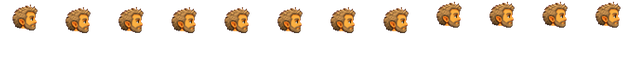
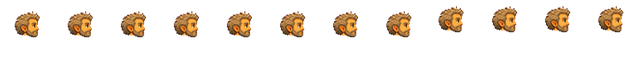
capas: cabeza fija al cuello (misma altura y centro en todos los fotogramas, anclada donde empieza el cuerpo)
Claude-Session: https://claude.ai/code/session_016LDX8s9ZoDhMCEDmCMU4bZ

diff --git a/public/index.html b/public/index.html
@@ -221,7 +221,7 @@ var SB_KEY = 'sb_publishable_1-eGqPkYOPKsW-ZEtUBo7A_16RQQGdK';
 var ATAJO = 'La Otra Comunidad';
 var STEPS_PER_KM = 1350, TOTAL_KM = 115;
 var LUGAR = {nombre:'Madrid', lat:40.43, lon:-3.81};
-var M = {"tramos": [[{"src": "assets/tramos/t1v_0.webp?v=162fa4d7", "y": -192, "v": 0.4, "hd": 3, "espejo": true}, {"src": "assets/tramos/t1v_1.webp?v=4642bb2a", "y": 209, "v": 1.0, "hd": 3, "espejo": true}], [{"src": "assets/tramos/t2v_0.webp?v=2ac7595f", "y": -192, "v": 0.4, "hd": 3, "espejo": true}, {"src": "assets/tramos/t2v_1.webp?v=07659e6a", "y": 209, "v": 1.0, "hd": 3, "espejo": true}], [{"src": "assets/tramos/t3v_0.webp?v=fb33aab2", "y": -192, "v": 0.4, "hd": 3, "espejo": true}, {"src": "assets/tramos/t3v_1.webp?v=42750449", "y": 209, "v": 1.0, "hd": 3, "espejo": true}], [{"src": "assets/tramos/t4v_0.webp?v=c2718a9c", "y": -192, "v": 0.4, "hd": 3, "espejo": true}, {"src": "assets/tramos/t4v_1.webp?v=0b370de7", "y": 209, "v": 1.0, "hd": 3, "espejo": true}], [{"src": "assets/tramos/t5_0.webp?v=f06aecc3", "y": 0, "v": 0.08}, {"src": "assets/tramos/t5_1.webp?v=f3abdd6c", "y": 31, "v": 0.3}, {"src": "assets/tramos/t5_2.webp?v=5110b3be", "y": 85, "v": 0.55}, {"src": "assets/tramos/t5_3.webp?v=a1aa4814", "y": 192, "v": 1.0}], [{"src": "assets/tramos/t6v_0.webp?v=380a0d06", "y": -192, "v": 0.4, "hd": 3, "espejo": true}, {"src": "assets/tramos/t6v_1.webp?v=ff66a92b", "y": 209, "v": 1.0, "hd": 3, "espejo": true}], [{"src": "assets/tramos/t7b_0.webp?v=4c93d6ac", "y": -192, "v": 0.4, "hd": 3, "espejo": true}, {"src": "assets/tramos/t7b_1.webp?v=16982fdd", "y": 210, "v": 1.0, "hd": 3, "espejo": true}], [{"src": "assets/tramos/t8b_0.webp?v=e0185a6c", "y": -192, "v": 0.4, "hd": 3, "espejo": true}, {"src": "assets/tramos/t8b_1.webp?v=5989f657", "y": 210, "v": 1.0, "hd": 3, "espejo": true}]], "arturo": ["assets/pj/arturo_normal.webp?v=7db8d380", "assets/pj/arturo_lluvia.webp?v=410e29f0", "assets/pj/arturo_noche.webp?v=a85f8b09", "assets/pj/arturo_calor.webp?v=5248314d"], "vecinos": ["assets/pj/vecino_1.webp?v=8c5299d1", "assets/pj/vecino_2.webp?v=0ad454f5", "assets/pj/vecino_3.webp?v=7460ffb8", "assets/pj/vecino_4.webp?v=a9dbcc5b"], "faces": "assets/pj/caras9.webp?v=749b1655", "logo": "assets/logo.webp?v=6e5698e6", "mj": {"pan": "assets/mj/zurron_pan.webp?v=eef983d0", "manta": "assets/mj/zurron_manta.webp?v=496c23db", "cuerda": "assets/mj/zurron_cuerda.webp?v=01c52897", "cantimplora": "assets/mj/zurron_cantimplora.webp?v=834316a1", "queso": "assets/mj/zurron_queso.webp?v=7897f985", "mapa": "assets/mj/zurron_mapa.webp?v=77a52314", "farol": "assets/mj/zurron_farol.webp?v=503f7f85", "pipa": "assets/mj/zurron_pipa.webp?v=ff72de42", "sillon": "assets/mj/zurron_sillon.webp?v=e2de97af", "reloj": "assets/mj/zurron_reloj.webp?v=f2e9850f", "cucharas": "assets/mj/zurron_cucharas.webp?v=ddf4903c", "paraguas": "assets/mj/zurron_paraguas.webp?v=29a8c29a", "jarron": "assets/mj/zurron_jarron.webp?v=0e426668", "libraco": "assets/mj/zurron_libraco.webp?v=d1d0c91f", "arbol": "assets/mj/arbol.webp?v=1d1e130a", "jinete1": "assets/mj/jinete1.webp?v=1bdb694e", "jinete2": "assets/mj/jinete2.webp?v=3dc1bbb4", "anillo": "assets/mj/anillo.webp?v=f785c169", "seta1": "assets/mj/seta1.webp?v=9166bdf3", "seta2": "assets/mj/seta2.webp?v=93212779", "seta3": "assets/mj/seta3.webp?v=a212aa81", "perro1": "assets/mj/perro1.webp?v=69bf8c3a", "perro2": "assets/mj/perro2.webp?v=b3a10435", "perro3": "assets/mj/perro3.webp?v=a5e4e2f7", "hoyo": "assets/mj/hoyo.webp?v=d29f43a1", "balsa1": "assets/mj/balsa1.webp?v=d45a7f5d", "balsa2": "assets/mj/balsa2.webp?v=d2719116", "rio": "assets/mj/rio.webp?v=aafc6b10", "muelle": "assets/mj/muelle.webp?v=592eaa57", "sombra": "assets/mj/sombra.webp?v=0652e012", "juncos": "assets/mj/juncos.webp?v=74e1fdc4"}, "papiro": "assets/papiro.webp?v=abe066ba", "andar": {"src": "assets/pj/arturo_andar.webp?v=7e62a290", "n": 6, "fw": 53.0, "h": 74}, "mapa": {"src": "assets/mapa.webp?v=9368dc78", "w": 1024, "h": 3796, "ruta": [[508, 3770], [508, 3761], [510, 3753], [514, 3737], [520, 3723], [529, 3712], [542, 3703], [556, 3696], [573, 3689], [592, 3681], [609, 3671], [622, 3660], [629, 3649], [634, 3636], [637, 3626], [639, 3617], [645, 3610], [654, 3602], [664, 3594], [672, 3584], [681, 3573], [689, 3561], [692, 3548], [690, 3534], [687, 3522], [677, 3509], [664, 3498], [650, 3488], [637, 3482], [621, 3476], [605, 3471], [589, 3467], [571, 3462], [553, 3458], [535, 3454], [518, 3450], [502, 3446], [487, 3441], [473, 3436], [459, 3430], [447, 3423], [438, 3414], [433, 3403], [434, 3391], [437, 3379], [441, 3367], [440, 3355], [433, 3344], [421, 3333], [407, 3323], [393, 3314], [383, 3304], [377, 3293], [379, 3280], [386, 3268], [398, 3256], [417, 3246], [437, 3238], [457, 3232], [476, 3225], [496, 3219], [516, 3212], [534, 3205], [549, 3194], [564, 3183], [578, 3172], [590, 3162], [602, 3154], [616, 3148], [631, 3142], [643, 3134], [652, 3125], [658, 3115], [657, 3104], [649, 3094], [638, 3084], [627, 3076], [614, 3068], [602, 3058], [596, 3047], [594, 3036], [597, 3025], [605, 3015], [619, 3008], [635, 3002], [651, 2993], [666, 2983], [677, 2971], [682, 2957], [682, 2942], [676, 2930], [665, 2918], [651, 2908], [636, 2900], [618, 2894], [600, 2888], [582, 2883], [563, 2878], [545, 2873], [527, 2869], [510, 2863], [496, 2856], [488, 2847], [483, 2843], [480, 2837], [500, 2784], [516, 2740], [516, 2690], [532, 2640], [544, 2590], [544, 2540], [552, 2496], [564, 2460], [544, 2420], [552, 2384], [532, 2344], [502, 2315], [501, 2285], [513, 2255], [538, 2225], [559, 2195], [563, 2165], [563, 2135], [525, 2105], [514, 2075], [515, 1955], [556, 1925], [583, 1895], [547, 1865], [504, 1835], [544, 1805], [553, 1775], [530, 1745], [530, 1715], [547, 1685], [579, 1625], [516, 1595], [510, 1565], [536, 1475], [574, 1445], [605, 1415], [582, 1385], [498, 1355], [531, 1295], [566, 1265], [554, 1235], [565, 1145], [595, 1005], [619, 975], [584, 945], [516, 855], [556, 825], [585, 795], [551, 765], [508, 735], [501, 705], [471, 645], [530, 615], [563, 585], [528, 465], [483, 435], [423, 405], [422, 375], [459, 345], [509, 315], [574, 255], [541, 105], [564, 75], [528, 45], [499, 15], [499, 0]], "lugares": [[0, "Bols\u00f3n Cerrado", 3760], [5, "Delagua", 3310], [15, "Colinas Verdes", 3160], [35, "Bosque Cerrado", 2900], [55, "Atajo", 2730], [75, "La granja", 2640], [90, "Calzada", 2530], [110, "Balsadera", 2475], [115, "Cricava", 2350], [120, "La Cerca", 2010], [130, "Bosque Viejo", 1800], [145, "El Tornasauce", 1530], [150, "Casa de Tom Bombadil", 1440], [175, "Quebradas de los T\u00famulos", 1250], [200, "Camino del Este", 1155], [210, "Bree", 1085], [225, "Bosque de Chet", 975], [250, "Pantanos de Moscagua", 915], [370, "Cima de los Vientos", 690], [530, "Puente \u00daltimo", 530], [600, "Landas de los Trolls", 410], [720, "Vado del Bruinen", 300], [740, "Rivendel", 70]]}, "equipo": {"capa": "assets/eq/capa.webp?v=0122b549", "sombrero": "assets/eq/sombrero.webp?v=f7dfac1a", "panuelo_sam": "assets/eq/panuelo_sam.webp?v=1a80a564", "cazo": "assets/eq/cazo.webp?v=22f7f48c", "broche": "assets/eq/broche.webp?v=6109e8ac", "panuelo_rojo": "assets/eq/panuelo_rojo.webp?v=fd15a308", "cantimplora_cinto": "assets/eq/cantimplora_cinto.webp?v=00c887d2", "pluma": "assets/eq/pluma.webp?v=1d6b2dd4", "gafas": "assets/eq/gafas.webp?v=0f0b85f1", "tiara": "assets/eq/tiara.webp?v=7de8e48f"}, "prologo": {"video": "assets/prologo/prologo.mp4?v=6f226176", "poster": "assets/prologo/poster.webp?v=0afee73e", "casa": "assets/prologo/casa.webp?v=e13a1dd5"}, "ilustraciones": ["assets/prologo/forja.webp?v=3a138e40", "assets/prologo/anillo.webp?v=0773b67f", "assets/prologo/guerra.webp?v=3dbb76a0", "assets/prologo/caido.webp?v=3f00fc99", "assets/prologo/rio.webp?v=f0525166", "assets/prologo/cueva.webp?v=53a6de1b", "assets/prologo/puerta.webp?v=9be18752", "assets/prologo/camino.webp?v=8554a997"], "npc": {"mago": ["assets/pj/mago_normal.webp?v=2dcb7716", "assets/pj/mago_lluvia.webp?v=3e964785", "assets/pj/mago_noche.webp?v=f6641a57", "assets/pj/mago_calor.webp?v=c90085e7"], "sombrero_azul": ["assets/pj/sombrero_azul_normal.webp?v=49dc044e", "assets/pj/sombrero_azul_lluvia.webp?v=dd90bf2a", "assets/pj/sombrero_azul_noche.webp?v=cf98f05d", "assets/pj/sombrero_azul_calor.webp?v=d65dd5f8"]}, "libro": {"0": "assets/libro/p1.webp?v=ef869ff9", "1": "assets/libro/p2.webp?v=6100887a", "2": "assets/libro/p3.webp?v=f87fd195", "3": "assets/libro/p4.webp?v=8c0c0014", "4": "assets/libro/p5.webp?v=a47588b7", "5": "assets/libro/p6.webp?v=7950004b", "6": "assets/libro/p7.webp?v=d7e44576", "7": "assets/libro/p8.webp?v=6766a419"}, "ropa": {"pantalon": "assets/pj/ropa_pantalon.webp?v=c61a7146", "capa": "assets/pj/ropa_capa.webp?v=e1faa8bf", "capa_f": "assets/pj/ropa_capa_f.webp?v=0c709b85", "capaFrame": {"fw": 84, "ox": -31}}, "props": {"senal": "assets/props/senal.webp?v=e7b2f572", "ovejas": "assets/props/ovejas.webp?v=311f376f", "carretilla": "assets/props/carretilla.webp?v=056e52f2", "piedra": "assets/props/piedra.webp?v=b27db386", "lena": "assets/props/lena.webp?v=4165f85f", "colmenas": "assets/props/colmenas.webp?v=b70b723c", "valla": "assets/props/valla.webp?v=4d295390", "setas": "assets/props/setas.webp?v=ce1dae4d", "pozo": "assets/props/pozo.webp?v=037c838e", "banco": "assets/props/banco.webp?v=c317202b", "zorro": "assets/props/zorro.webp?v=2bfaa8b8", "carro_heno": "assets/props/carro_heno.webp?v=d90f13e9"}, "escenas": [{"km": 9, "capas": [{"src": "assets/tramos/e09v_0.webp?v=9b272767", "y": -192, "v": 0.4, "hd": 3, "espejo": true}, {"src": "assets/tramos/e09v_1.webp?v=626f2e28", "y": 209, "v": 1.0, "hd": 3, "espejo": true}]}, {"km": 25, "capas": [{"src": "assets/tramos/e25_0.webp?v=f874360c", "y": -192, "v": 0.4, "hd": 3, "espejo": true}, {"src": "assets/tramos/e25_1.webp?v=dc8516e2", "y": 209, "v": 1.0, "hd": 3, "espejo": true}]}, {"km": 45, "capas": [{"src": "assets/tramos/e45_0.webp?v=0c496962", "y": -192, "v": 0.4, "hd": 3, "espejo": true}, {"src": "assets/tramos/e45_1.webp?v=f8b71963", "y": 209, "v": 1.0, "hd": 3, "espejo": true}]}, {"km": 65, "capas": [{"src": "assets/tramos/e65_0.webp?v=a730a4cb", "y": -192, "v": 0.4, "hd": 3, "espejo": true}, {"src": "assets/tramos/e65_1.webp?v=af390ea6", "y": 209, "v": 1.0, "hd": 3, "espejo": true}]}, {"km": 80, "capas": [{"src": "assets/tramos/e80_0.webp?v=2ae90a84", "y": -192, "v": 0.4, "hd": 3, "espejo": true}, {"src": "assets/tramos/e80_1.webp?v=656134e8", "y": 209, "v": 1.0, "hd": 3, "espejo": true}]}, {"km": 100, "capas": [{"src": "assets/tramos/e100_0.webp?v=96b4d4c3", "y": -192, "v": 0.4, "hd": 3, "espejo": true}, {"src": "assets/tramos/e100_1.webp?v=ff63ade0", "y": 209, "v": 1.0, "hd": 3, "espejo": true}]}, {"km": 113, "capas": [{"src": "assets/tramos/e113_0.webp?v=2f8c2840", "y": -192, "v": 0.4, "hd": 3, "espejo": true}, {"src": "assets/tramos/e113_1.webp?v=343cbb60", "y": 209, "v": 1.0, "hd": 3, "espejo": true}]}], "objetos": {"casa": "assets/mj/obj_casa.webp?v=11955867", "pipa": "assets/mj/obj_pipa.webp?v=9310f0ce", "hoja": "assets/mj/obj_hoja.webp?v=a4fb68a5", "estrella": "assets/mj/obj_estrella.webp?v=2718a702", "cayado": "assets/mj/obj_cayado.webp?v=346609ad", "cesta": "assets/mj/obj_cesta.webp?v=d1e05991", "farol": "assets/mj/obj_farol.webp?v=3c67590e", "balsa": "assets/mj/obj_balsa.webp?v=fcd81db0"}, "ropaIco": {"capa": "assets/eq/capa.webp?v=0122b549", "capa_verde": "assets/eq/capa_verde.webp?v=b5cc373a", "capa_granate": "assets/eq/capa_granate.webp?v=ec0bde53", "capa_gris": "assets/eq/capa_gris.webp?v=d2a75931", "pant_verde": "assets/eq/pant_verde.webp?v=1b3a8a49", "pant_azul": "assets/eq/pant_azul.webp?v=873e7563", "pant_gris": "assets/eq/pant_gris.webp?v=dc39d40e", "pant_mostaza": "assets/eq/pant_mostaza.webp?v=a53bb81c"}, "andarPJ": {"fer": {"src": "assets/pj/andar_fer.webp?v=a1960a01", "pantalon": "assets/pj/ropa_pantalon_fer.webp?v=ddc157ee", "capa": "assets/pj/ropa_capa_fer.webp?v=4ec3bc47", "capa_f": "assets/pj/ropa_capa_f_fer.webp?v=16a7a4cc", "n": 8, "ms": 160, "vel": 0.0356, "dx": [0, -3, 2, 2, -3, -3, 3, 4]}, "patri": {"src": "assets/pj/andar_patri.webp?v=6ce8bf24", "pantalon": "assets/pj/ropa_pantalon_patri.webp?v=3f92d97d", "capa": "assets/pj/ropa_capa_patri.webp?v=69ac1f75", "capa_f": "assets/pj/ropa_capa_f_patri.webp?v=a9eb8c68", "n": 8, "ms": 160, "vel": 0.0356, "dx": [0, -3, 2, 2, -3, -3, 3, 4]}, "juanpablo": {"src": "assets/pj/andar_juanpablo.webp?v=c89365f6", "pantalon": "assets/pj/ropa_pantalon_juanpablo.webp?v=eabcf1f7", "capa": "assets/pj/ropa_capa_juanpablo.webp?v=ef786ba2", "capa_f": "assets/pj/ropa_capa_f_juanpablo.webp?v=084549cb", "n": 8, "ms": 160, "vel": 0.0356, "dx": [0, 0, 0, 0, 0, 0, 0, 0]}, "arturo": {"src": "assets/pj/andar_arturo.webp?v=c15a4cbf", "pantalon": "assets/pj/ropa_pantalon_arturo.webp?v=5fb87995", "capa": "assets/pj/ropa_capa_arturo.webp?v=0658b58c", "capa_f": "assets/pj/ropa_capa_f_arturo.webp?v=f4b0b94a", "n": 8, "ms": 160, "vel": 0.0344, "dx": [0, -4, 0, 4, 0, -4, 0, 4]}, "edo": {"src": "assets/pj/andar_edo.webp?v=874feaf0", "pantalon": "assets/pj/ropa_pantalon_edo.webp?v=be0ca919", "capa": "assets/pj/ropa_capa_edo.webp?v=16ef3acf", "capa_f": "assets/pj/ropa_capa_f_edo.webp?v=50e3d11f", "n": 8, "ms": 160, "vel": 0.0344, "dx": [0, -4, 0, 4, 0, -4, 0, 4]}}, "menu": {"forja": "assets/menu/forja.webp?v=32eaa4c1", "anillo": "assets/menu/anillo.webp?v=2edff033", "chispas": {"src": "assets/menu/chispas.webp?v=7a0e8284", "n": 6, "fw": 125, "h": 262}, "herrero": {"src": "assets/menu/herrero.webp?v=8d4a16d2", "n": 4, "fw": 320, "h": 295}}, "ui": {"redondo": "assets/ui/redondo.webp?v=553a38ab", "redondo_on": "assets/ui/redondo_on.webp?v=d47c1e86", "largo": "assets/ui/largo.webp?v=21b6a8ab", "largo_on": "assets/ui/largo_on.webp?v=b4d3082f", "i_mapa": "assets/ui/i_mapa.webp?v=baf5a951", "i_libro": "assets/ui/i_libro.webp?v=65e306af", "i_comunidad": "assets/ui/i_comunidad.webp?v=ba394914", "i_zurron": "assets/ui/i_zurron.webp?v=801f3a01", "i_sync": "assets/ui/i_sync.webp?v=56462d84", "i_hoja": "assets/ui/i_hoja.webp?v=f8fe9299", "placa_pasos": "assets/ui/placa_pasos.webp?v=12bec8e1", "destellos": "assets/ui/destellos.webp?v=b74326dc", "fondo_menu": "assets/ui/fondo_menu.webp?v=0cf7211a", "hoja_menu": "assets/ui/hoja_menu.webp?v=82f13f93"}, "facesN": 9, "quietoPJ": {"fer": {"src": "assets/pj/quieto_fer.webp?v=2d287b87", "pantalon": "assets/pj/ropa_pantalon_quieto_fer.webp?v=2a5fa9ec", "capa": "assets/pj/ropa_capa_quieto_fer.webp?v=748a63a8", "capa_f": "assets/pj/ropa_capa_f_quieto_fer.webp?v=9d786b24", "n": 4, "ms": 450}, "patri": {"src": "assets/pj/quieto_patri.webp?v=e8935790", "pantalon": "assets/pj/ropa_pantalon_quieto_patri.webp?v=b4969e48", "capa": "assets/pj/ropa_capa_quieto_patri.webp?v=26634d11", "capa_f": "assets/pj/ropa_capa_f_quieto_patri.webp?v=328aff4d", "n": 4, "ms": 450}, "adrian": {"src": "assets/pj/quieto_adrian.webp?v=b81deb89", "pantalon": "assets/pj/ropa_pantalon_quieto_adrian.webp?v=5525cad1", "capa": "assets/pj/ropa_capa_quieto_adrian.webp?v=a22c0b8a", "capa_f": "assets/pj/ropa_capa_f_quieto_adrian.webp?v=6c51806e", "n": 4, "ms": 450}, "carlos": {"src": "assets/pj/quieto_carlos.webp?v=c5a30670", "pantalon": "assets/pj/ropa_pantalon_quieto_carlos.webp?v=b82e99a6", "capa": "assets/pj/ropa_capa_quieto_carlos.webp?v=5d3f98c6", "capa_f": "assets/pj/ropa_capa_f_quieto_carlos.webp?v=d8920044", "n": 4, "ms": 450}, "juanpablo": {"src": "assets/pj/quieto_juanpablo.webp?v=6e704838", "pantalon": "assets/pj/ropa_pantalon_quieto_juanpablo.webp?v=cd8fb44e", "capa": "assets/pj/ropa_capa_quieto_juanpablo.webp?v=c7daa765", "capa_f": "assets/pj/ropa_capa_f_quieto_juanpablo.webp?v=383cb623", "n": 4, "ms": 450}, "arturo": {"src": "assets/pj/quieto_arturo.webp?v=a137794f", "pantalon": "assets/pj/ropa_pantalon_quieto_arturo.webp?v=41e5d86c", "capa": "assets/pj/ropa_capa_quieto_arturo.webp?v=4d687a5b", "capa_f": "assets/pj/ropa_capa_f_quieto_arturo.webp?v=31b81915", "n": 4, "ms": 450}, "edo": {"src": "assets/pj/quieto_edo.webp?v=25a809fa", "pantalon": "assets/pj/ropa_pantalon_quieto_edo.webp?v=ec1ecdb7", "capa": "assets/pj/ropa_capa_quieto_edo.webp?v=f5d0127d", "capa_f": "assets/pj/ropa_capa_f_quieto_edo.webp?v=ff69cc07", "n": 4, "ms": 450}}, "fp": [{"tramo": 3, "fondo": "assets/fp/bosque_fondo.webp?v=d94309cc", "delante": "assets/fp/bosque_delante.webp?v=4903fead", "manos": {"src": "assets/fp/manos.webp?v=7ba225f5", "n": 4, "fw": 325, "h": 434}, "fuga": [0.5, 0.56], "luces": [[0.47, 0.565], [0.51, 0.548], [0.545, 0.565], [0.455, 0.575]], "hasta": 45}], "escenaElfos": ["assets/escenas/elfos1.webp?v=821cfc4d", "assets/escenas/elfos2.webp?v=a89595ed", "assets/escenas/elfos3.webp?v=2f3b37c6"], "entreactos": {"1": {"video": "assets/entreactos/acto1.mp4?v=24d497d1", "poster": "assets/entreactos/acto1.webp?v=4f4a3739"}}, "capas": {"capas": {"cuerpo": "assets/pj/capas/cuerpo.webp?v=66200e3b", "capa": "assets/pj/capas/capa.webp?v=2d14e53d", "pantalon": "assets/pj/capas/pantalon.webp?v=fc330ced", "mochila": "assets/pj/capas/mochila.webp?v=8a00b540", "cantimplora": "assets/pj/capas/cantimplora.webp?v=6987245d"}, "cabezas": {"arturo": "assets/pj/capas/cab_arturo.webp?v=56e048df", "fer": "assets/pj/capas/cab_fer.webp?v=4943aeec", "patri": "assets/pj/capas/cab_patri.webp?v=c59c0352", "edo": "assets/pj/capas/cab_edo.webp?v=a88692df", "carlos": "assets/pj/capas/cab_carlos.webp?v=580e91e3", "porru": "assets/pj/capas/cab_porru.webp?v=55a941b5", "adrian": "assets/pj/capas/cab_adrian.webp?v=7e29d59d", "rodri": "assets/pj/capas/cab_rodri.webp?v=952eeaa0", "juanpablo": "assets/pj/capas/cab_juanpablo.webp?v=92d43bfb"}}};
+var M = {"tramos": [[{"src": "assets/tramos/t1v_0.webp?v=162fa4d7", "y": -192, "v": 0.4, "hd": 3, "espejo": true}, {"src": "assets/tramos/t1v_1.webp?v=4642bb2a", "y": 209, "v": 1.0, "hd": 3, "espejo": true}], [{"src": "assets/tramos/t2v_0.webp?v=2ac7595f", "y": -192, "v": 0.4, "hd": 3, "espejo": true}, {"src": "assets/tramos/t2v_1.webp?v=07659e6a", "y": 209, "v": 1.0, "hd": 3, "espejo": true}], [{"src": "assets/tramos/t3v_0.webp?v=fb33aab2", "y": -192, "v": 0.4, "hd": 3, "espejo": true}, {"src": "assets/tramos/t3v_1.webp?v=42750449", "y": 209, "v": 1.0, "hd": 3, "espejo": true}], [{"src": "assets/tramos/t4v_0.webp?v=c2718a9c", "y": -192, "v": 0.4, "hd": 3, "espejo": true}, {"src": "assets/tramos/t4v_1.webp?v=0b370de7", "y": 209, "v": 1.0, "hd": 3, "espejo": true}], [{"src": "assets/tramos/t5_0.webp?v=f06aecc3", "y": 0, "v": 0.08}, {"src": "assets/tramos/t5_1.webp?v=f3abdd6c", "y": 31, "v": 0.3}, {"src": "assets/tramos/t5_2.webp?v=5110b3be", "y": 85, "v": 0.55}, {"src": "assets/tramos/t5_3.webp?v=a1aa4814", "y": 192, "v": 1.0}], [{"src": "assets/tramos/t6v_0.webp?v=380a0d06", "y": -192, "v": 0.4, "hd": 3, "espejo": true}, {"src": "assets/tramos/t6v_1.webp?v=ff66a92b", "y": 209, "v": 1.0, "hd": 3, "espejo": true}], [{"src": "assets/tramos/t7b_0.webp?v=4c93d6ac", "y": -192, "v": 0.4, "hd": 3, "espejo": true}, {"src": "assets/tramos/t7b_1.webp?v=16982fdd", "y": 210, "v": 1.0, "hd": 3, "espejo": true}], [{"src": "assets/tramos/t8b_0.webp?v=e0185a6c", "y": -192, "v": 0.4, "hd": 3, "espejo": true}, {"src": "assets/tramos/t8b_1.webp?v=5989f657", "y": 210, "v": 1.0, "hd": 3, "espejo": true}]], "arturo": ["assets/pj/arturo_normal.webp?v=7db8d380", "assets/pj/arturo_lluvia.webp?v=410e29f0", "assets/pj/arturo_noche.webp?v=a85f8b09", "assets/pj/arturo_calor.webp?v=5248314d"], "vecinos": ["assets/pj/vecino_1.webp?v=8c5299d1", "assets/pj/vecino_2.webp?v=0ad454f5", "assets/pj/vecino_3.webp?v=7460ffb8", "assets/pj/vecino_4.webp?v=a9dbcc5b"], "faces": "assets/pj/caras9.webp?v=749b1655", "logo": "assets/logo.webp?v=6e5698e6", "mj": {"pan": "assets/mj/zurron_pan.webp?v=eef983d0", "manta": "assets/mj/zurron_manta.webp?v=496c23db", "cuerda": "assets/mj/zurron_cuerda.webp?v=01c52897", "cantimplora": "assets/mj/zurron_cantimplora.webp?v=834316a1", "queso": "assets/mj/zurron_queso.webp?v=7897f985", "mapa": "assets/mj/zurron_mapa.webp?v=77a52314", "farol": "assets/mj/zurron_farol.webp?v=503f7f85", "pipa": "assets/mj/zurron_pipa.webp?v=ff72de42", "sillon": "assets/mj/zurron_sillon.webp?v=e2de97af", "reloj": "assets/mj/zurron_reloj.webp?v=f2e9850f", "cucharas": "assets/mj/zurron_cucharas.webp?v=ddf4903c", "paraguas": "assets/mj/zurron_paraguas.webp?v=29a8c29a", "jarron": "assets/mj/zurron_jarron.webp?v=0e426668", "libraco": "assets/mj/zurron_libraco.webp?v=d1d0c91f", "arbol": "assets/mj/arbol.webp?v=1d1e130a", "jinete1": "assets/mj/jinete1.webp?v=1bdb694e", "jinete2": "assets/mj/jinete2.webp?v=3dc1bbb4", "anillo": "assets/mj/anillo.webp?v=f785c169", "seta1": "assets/mj/seta1.webp?v=9166bdf3", "seta2": "assets/mj/seta2.webp?v=93212779", "seta3": "assets/mj/seta3.webp?v=a212aa81", "perro1": "assets/mj/perro1.webp?v=69bf8c3a", "perro2": "assets/mj/perro2.webp?v=b3a10435", "perro3": "assets/mj/perro3.webp?v=a5e4e2f7", "hoyo": "assets/mj/hoyo.webp?v=d29f43a1", "balsa1": "assets/mj/balsa1.webp?v=d45a7f5d", "balsa2": "assets/mj/balsa2.webp?v=d2719116", "rio": "assets/mj/rio.webp?v=aafc6b10", "muelle": "assets/mj/muelle.webp?v=592eaa57", "sombra": "assets/mj/sombra.webp?v=0652e012", "juncos": "assets/mj/juncos.webp?v=74e1fdc4"}, "papiro": "assets/papiro.webp?v=abe066ba", "andar": {"src": "assets/pj/arturo_andar.webp?v=7e62a290", "n": 6, "fw": 53.0, "h": 74}, "mapa": {"src": "assets/mapa.webp?v=9368dc78", "w": 1024, "h": 3796, "ruta": [[508, 3770], [508, 3761], [510, 3753], [514, 3737], [520, 3723], [529, 3712], [542, 3703], [556, 3696], [573, 3689], [592, 3681], [609, 3671], [622, 3660], [629, 3649], [634, 3636], [637, 3626], [639, 3617], [645, 3610], [654, 3602], [664, 3594], [672, 3584], [681, 3573], [689, 3561], [692, 3548], [690, 3534], [687, 3522], [677, 3509], [664, 3498], [650, 3488], [637, 3482], [621, 3476], [605, 3471], [589, 3467], [571, 3462], [553, 3458], [535, 3454], [518, 3450], [502, 3446], [487, 3441], [473, 3436], [459, 3430], [447, 3423], [438, 3414], [433, 3403], [434, 3391], [437, 3379], [441, 3367], [440, 3355], [433, 3344], [421, 3333], [407, 3323], [393, 3314], [383, 3304], [377, 3293], [379, 3280], [386, 3268], [398, 3256], [417, 3246], [437, 3238], [457, 3232], [476, 3225], [496, 3219], [516, 3212], [534, 3205], [549, 3194], [564, 3183], [578, 3172], [590, 3162], [602, 3154], [616, 3148], [631, 3142], [643, 3134], [652, 3125], [658, 3115], [657, 3104], [649, 3094], [638, 3084], [627, 3076], [614, 3068], [602, 3058], [596, 3047], [594, 3036], [597, 3025], [605, 3015], [619, 3008], [635, 3002], [651, 2993], [666, 2983], [677, 2971], [682, 2957], [682, 2942], [676, 2930], [665, 2918], [651, 2908], [636, 2900], [618, 2894], [600, 2888], [582, 2883], [563, 2878], [545, 2873], [527, 2869], [510, 2863], [496, 2856], [488, 2847], [483, 2843], [480, 2837], [500, 2784], [516, 2740], [516, 2690], [532, 2640], [544, 2590], [544, 2540], [552, 2496], [564, 2460], [544, 2420], [552, 2384], [532, 2344], [502, 2315], [501, 2285], [513, 2255], [538, 2225], [559, 2195], [563, 2165], [563, 2135], [525, 2105], [514, 2075], [515, 1955], [556, 1925], [583, 1895], [547, 1865], [504, 1835], [544, 1805], [553, 1775], [530, 1745], [530, 1715], [547, 1685], [579, 1625], [516, 1595], [510, 1565], [536, 1475], [574, 1445], [605, 1415], [582, 1385], [498, 1355], [531, 1295], [566, 1265], [554, 1235], [565, 1145], [595, 1005], [619, 975], [584, 945], [516, 855], [556, 825], [585, 795], [551, 765], [508, 735], [501, 705], [471, 645], [530, 615], [563, 585], [528, 465], [483, 435], [423, 405], [422, 375], [459, 345], [509, 315], [574, 255], [541, 105], [564, 75], [528, 45], [499, 15], [499, 0]], "lugares": [[0, "Bols\u00f3n Cerrado", 3760], [5, "Delagua", 3310], [15, "Colinas Verdes", 3160], [35, "Bosque Cerrado", 2900], [55, "Atajo", 2730], [75, "La granja", 2640], [90, "Calzada", 2530], [110, "Balsadera", 2475], [115, "Cricava", 2350], [120, "La Cerca", 2010], [130, "Bosque Viejo", 1800], [145, "El Tornasauce", 1530], [150, "Casa de Tom Bombadil", 1440], [175, "Quebradas de los T\u00famulos", 1250], [200, "Camino del Este", 1155], [210, "Bree", 1085], [225, "Bosque de Chet", 975], [250, "Pantanos de Moscagua", 915], [370, "Cima de los Vientos", 690], [530, "Puente \u00daltimo", 530], [600, "Landas de los Trolls", 410], [720, "Vado del Bruinen", 300], [740, "Rivendel", 70]]}, "equipo": {"capa": "assets/eq/capa.webp?v=0122b549", "sombrero": "assets/eq/sombrero.webp?v=f7dfac1a", "panuelo_sam": "assets/eq/panuelo_sam.webp?v=1a80a564", "cazo": "assets/eq/cazo.webp?v=22f7f48c", "broche": "assets/eq/broche.webp?v=6109e8ac", "panuelo_rojo": "assets/eq/panuelo_rojo.webp?v=fd15a308", "cantimplora_cinto": "assets/eq/cantimplora_cinto.webp?v=00c887d2", "pluma": "assets/eq/pluma.webp?v=1d6b2dd4", "gafas": "assets/eq/gafas.webp?v=0f0b85f1", "tiara": "assets/eq/tiara.webp?v=7de8e48f"}, "prologo": {"video": "assets/prologo/prologo.mp4?v=6f226176", "poster": "assets/prologo/poster.webp?v=0afee73e", "casa": "assets/prologo/casa.webp?v=e13a1dd5"}, "ilustraciones": ["assets/prologo/forja.webp?v=3a138e40", "assets/prologo/anillo.webp?v=0773b67f", "assets/prologo/guerra.webp?v=3dbb76a0", "assets/prologo/caido.webp?v=3f00fc99", "assets/prologo/rio.webp?v=f0525166", "assets/prologo/cueva.webp?v=53a6de1b", "assets/prologo/puerta.webp?v=9be18752", "assets/prologo/camino.webp?v=8554a997"], "npc": {"mago": ["assets/pj/mago_normal.webp?v=2dcb7716", "assets/pj/mago_lluvia.webp?v=3e964785", "assets/pj/mago_noche.webp?v=f6641a57", "assets/pj/mago_calor.webp?v=c90085e7"], "sombrero_azul": ["assets/pj/sombrero_azul_normal.webp?v=49dc044e", "assets/pj/sombrero_azul_lluvia.webp?v=dd90bf2a", "assets/pj/sombrero_azul_noche.webp?v=cf98f05d", "assets/pj/sombrero_azul_calor.webp?v=d65dd5f8"]}, "libro": {"0": "assets/libro/p1.webp?v=ef869ff9", "1": "assets/libro/p2.webp?v=6100887a", "2": "assets/libro/p3.webp?v=f87fd195", "3": "assets/libro/p4.webp?v=8c0c0014", "4": "assets/libro/p5.webp?v=a47588b7", "5": "assets/libro/p6.webp?v=7950004b", "6": "assets/libro/p7.webp?v=d7e44576", "7": "assets/libro/p8.webp?v=6766a419"}, "ropa": {"pantalon": "assets/pj/ropa_pantalon.webp?v=c61a7146", "capa": "assets/pj/ropa_capa.webp?v=e1faa8bf", "capa_f": "assets/pj/ropa_capa_f.webp?v=0c709b85", "capaFrame": {"fw": 84, "ox": -31}}, "props": {"senal": "assets/props/senal.webp?v=e7b2f572", "ovejas": "assets/props/ovejas.webp?v=311f376f", "carretilla": "assets/props/carretilla.webp?v=056e52f2", "piedra": "assets/props/piedra.webp?v=b27db386", "lena": "assets/props/lena.webp?v=4165f85f", "colmenas": "assets/props/colmenas.webp?v=b70b723c", "valla": "assets/props/valla.webp?v=4d295390", "setas": "assets/props/setas.webp?v=ce1dae4d", "pozo": "assets/props/pozo.webp?v=037c838e", "banco": "assets/props/banco.webp?v=c317202b", "zorro": "assets/props/zorro.webp?v=2bfaa8b8", "carro_heno": "assets/props/carro_heno.webp?v=d90f13e9"}, "escenas": [{"km": 9, "capas": [{"src": "assets/tramos/e09v_0.webp?v=9b272767", "y": -192, "v": 0.4, "hd": 3, "espejo": true}, {"src": "assets/tramos/e09v_1.webp?v=626f2e28", "y": 209, "v": 1.0, "hd": 3, "espejo": true}]}, {"km": 25, "capas": [{"src": "assets/tramos/e25_0.webp?v=f874360c", "y": -192, "v": 0.4, "hd": 3, "espejo": true}, {"src": "assets/tramos/e25_1.webp?v=dc8516e2", "y": 209, "v": 1.0, "hd": 3, "espejo": true}]}, {"km": 45, "capas": [{"src": "assets/tramos/e45_0.webp?v=0c496962", "y": -192, "v": 0.4, "hd": 3, "espejo": true}, {"src": "assets/tramos/e45_1.webp?v=f8b71963", "y": 209, "v": 1.0, "hd": 3, "espejo": true}]}, {"km": 65, "capas": [{"src": "assets/tramos/e65_0.webp?v=a730a4cb", "y": -192, "v": 0.4, "hd": 3, "espejo": true}, {"src": "assets/tramos/e65_1.webp?v=af390ea6", "y": 209, "v": 1.0, "hd": 3, "espejo": true}]}, {"km": 80, "capas": [{"src": "assets/tramos/e80_0.webp?v=2ae90a84", "y": -192, "v": 0.4, "hd": 3, "espejo": true}, {"src": "assets/tramos/e80_1.webp?v=656134e8", "y": 209, "v": 1.0, "hd": 3, "espejo": true}]}, {"km": 100, "capas": [{"src": "assets/tramos/e100_0.webp?v=96b4d4c3", "y": -192, "v": 0.4, "hd": 3, "espejo": true}, {"src": "assets/tramos/e100_1.webp?v=ff63ade0", "y": 209, "v": 1.0, "hd": 3, "espejo": true}]}, {"km": 113, "capas": [{"src": "assets/tramos/e113_0.webp?v=2f8c2840", "y": -192, "v": 0.4, "hd": 3, "espejo": true}, {"src": "assets/tramos/e113_1.webp?v=343cbb60", "y": 209, "v": 1.0, "hd": 3, "espejo": true}]}], "objetos": {"casa": "assets/mj/obj_casa.webp?v=11955867", "pipa": "assets/mj/obj_pipa.webp?v=9310f0ce", "hoja": "assets/mj/obj_hoja.webp?v=a4fb68a5", "estrella": "assets/mj/obj_estrella.webp?v=2718a702", "cayado": "assets/mj/obj_cayado.webp?v=346609ad", "cesta": "assets/mj/obj_cesta.webp?v=d1e05991", "farol": "assets/mj/obj_farol.webp?v=3c67590e", "balsa": "assets/mj/obj_balsa.webp?v=fcd81db0"}, "ropaIco": {"capa": "assets/eq/capa.webp?v=0122b549", "capa_verde": "assets/eq/capa_verde.webp?v=b5cc373a", "capa_granate": "assets/eq/capa_granate.webp?v=ec0bde53", "capa_gris": "assets/eq/capa_gris.webp?v=d2a75931", "pant_verde": "assets/eq/pant_verde.webp?v=1b3a8a49", "pant_azul": "assets/eq/pant_azul.webp?v=873e7563", "pant_gris": "assets/eq/pant_gris.webp?v=dc39d40e", "pant_mostaza": "assets/eq/pant_mostaza.webp?v=a53bb81c"}, "andarPJ": {"fer": {"src": "assets/pj/andar_fer.webp?v=a1960a01", "pantalon": "assets/pj/ropa_pantalon_fer.webp?v=ddc157ee", "capa": "assets/pj/ropa_capa_fer.webp?v=4ec3bc47", "capa_f": "assets/pj/ropa_capa_f_fer.webp?v=16a7a4cc", "n": 8, "ms": 160, "vel": 0.0356, "dx": [0, -3, 2, 2, -3, -3, 3, 4]}, "patri": {"src": "assets/pj/andar_patri.webp?v=6ce8bf24", "pantalon": "assets/pj/ropa_pantalon_patri.webp?v=3f92d97d", "capa": "assets/pj/ropa_capa_patri.webp?v=69ac1f75", "capa_f": "assets/pj/ropa_capa_f_patri.webp?v=a9eb8c68", "n": 8, "ms": 160, "vel": 0.0356, "dx": [0, -3, 2, 2, -3, -3, 3, 4]}, "juanpablo": {"src": "assets/pj/andar_juanpablo.webp?v=c89365f6", "pantalon": "assets/pj/ropa_pantalon_juanpablo.webp?v=eabcf1f7", "capa": "assets/pj/ropa_capa_juanpablo.webp?v=ef786ba2", "capa_f": "assets/pj/ropa_capa_f_juanpablo.webp?v=084549cb", "n": 8, "ms": 160, "vel": 0.0356, "dx": [0, 0, 0, 0, 0, 0, 0, 0]}, "arturo": {"src": "assets/pj/andar_arturo.webp?v=c15a4cbf", "pantalon": "assets/pj/ropa_pantalon_arturo.webp?v=5fb87995", "capa": "assets/pj/ropa_capa_arturo.webp?v=0658b58c", "capa_f": "assets/pj/ropa_capa_f_arturo.webp?v=f4b0b94a", "n": 8, "ms": 160, "vel": 0.0344, "dx": [0, -4, 0, 4, 0, -4, 0, 4]}, "edo": {"src": "assets/pj/andar_edo.webp?v=874feaf0", "pantalon": "assets/pj/ropa_pantalon_edo.webp?v=be0ca919", "capa": "assets/pj/ropa_capa_edo.webp?v=16ef3acf", "capa_f": "assets/pj/ropa_capa_f_edo.webp?v=50e3d11f", "n": 8, "ms": 160, "vel": 0.0344, "dx": [0, -4, 0, 4, 0, -4, 0, 4]}}, "menu": {"forja": "assets/menu/forja.webp?v=32eaa4c1", "anillo": "assets/menu/anillo.webp?v=2edff033", "chispas": {"src": "assets/menu/chispas.webp?v=7a0e8284", "n": 6, "fw": 125, "h": 262}, "herrero": {"src": "assets/menu/herrero.webp?v=8d4a16d2", "n": 4, "fw": 320, "h": 295}}, "ui": {"redondo": "assets/ui/redondo.webp?v=553a38ab", "redondo_on": "assets/ui/redondo_on.webp?v=d47c1e86", "largo": "assets/ui/largo.webp?v=21b6a8ab", "largo_on": "assets/ui/largo_on.webp?v=b4d3082f", "i_mapa": "assets/ui/i_mapa.webp?v=baf5a951", "i_libro": "assets/ui/i_libro.webp?v=65e306af", "i_comunidad": "assets/ui/i_comunidad.webp?v=ba394914", "i_zurron": "assets/ui/i_zurron.webp?v=801f3a01", "i_sync": "assets/ui/i_sync.webp?v=56462d84", "i_hoja": "assets/ui/i_hoja.webp?v=f8fe9299", "placa_pasos": "assets/ui/placa_pasos.webp?v=12bec8e1", "destellos": "assets/ui/destellos.webp?v=b74326dc", "fondo_menu": "assets/ui/fondo_menu.webp?v=0cf7211a", "hoja_menu": "assets/ui/hoja_menu.webp?v=82f13f93"}, "facesN": 9, "quietoPJ": {"fer": {"src": "assets/pj/quieto_fer.webp?v=2d287b87", "pantalon": "assets/pj/ropa_pantalon_quieto_fer.webp?v=2a5fa9ec", "capa": "assets/pj/ropa_capa_quieto_fer.webp?v=748a63a8", "capa_f": "assets/pj/ropa_capa_f_quieto_fer.webp?v=9d786b24", "n": 4, "ms": 450}, "patri": {"src": "assets/pj/quieto_patri.webp?v=e8935790", "pantalon": "assets/pj/ropa_pantalon_quieto_patri.webp?v=b4969e48", "capa": "assets/pj/ropa_capa_quieto_patri.webp?v=26634d11", "capa_f": "assets/pj/ropa_capa_f_quieto_patri.webp?v=328aff4d", "n": 4, "ms": 450}, "adrian": {"src": "assets/pj/quieto_adrian.webp?v=b81deb89", "pantalon": "assets/pj/ropa_pantalon_quieto_adrian.webp?v=5525cad1", "capa": "assets/pj/ropa_capa_quieto_adrian.webp?v=a22c0b8a", "capa_f": "assets/pj/ropa_capa_f_quieto_adrian.webp?v=6c51806e", "n": 4, "ms": 450}, "carlos": {"src": "assets/pj/quieto_carlos.webp?v=c5a30670", "pantalon": "assets/pj/ropa_pantalon_quieto_carlos.webp?v=b82e99a6", "capa": "assets/pj/ropa_capa_quieto_carlos.webp?v=5d3f98c6", "capa_f": "assets/pj/ropa_capa_f_quieto_carlos.webp?v=d8920044", "n": 4, "ms": 450}, "juanpablo": {"src": "assets/pj/quieto_juanpablo.webp?v=6e704838", "pantalon": "assets/pj/ropa_pantalon_quieto_juanpablo.webp?v=cd8fb44e", "capa": "assets/pj/ropa_capa_quieto_juanpablo.webp?v=c7daa765", "capa_f": "assets/pj/ropa_capa_f_quieto_juanpablo.webp?v=383cb623", "n": 4, "ms": 450}, "arturo": {"src": "assets/pj/quieto_arturo.webp?v=a137794f", "pantalon": "assets/pj/ropa_pantalon_quieto_arturo.webp?v=41e5d86c", "capa": "assets/pj/ropa_capa_quieto_arturo.webp?v=4d687a5b", "capa_f": "assets/pj/ropa_capa_f_quieto_arturo.webp?v=31b81915", "n": 4, "ms": 450}, "edo": {"src": "assets/pj/quieto_edo.webp?v=25a809fa", "pantalon": "assets/pj/ropa_pantalon_quieto_edo.webp?v=ec1ecdb7", "capa": "assets/pj/ropa_capa_quieto_edo.webp?v=f5d0127d", "capa_f": "assets/pj/ropa_capa_f_quieto_edo.webp?v=ff69cc07", "n": 4, "ms": 450}}, "fp": [{"tramo": 3, "fondo": "assets/fp/bosque_fondo.webp?v=d94309cc", "delante": "assets/fp/bosque_delante.webp?v=4903fead", "manos": {"src": "assets/fp/manos.webp?v=7ba225f5", "n": 4, "fw": 325, "h": 434}, "fuga": [0.5, 0.56], "luces": [[0.47, 0.565], [0.51, 0.548], [0.545, 0.565], [0.455, 0.575]], "hasta": 45}], "escenaElfos": ["assets/escenas/elfos1.webp?v=821cfc4d", "assets/escenas/elfos2.webp?v=a89595ed", "assets/escenas/elfos3.webp?v=2f3b37c6"], "entreactos": {"1": {"video": "assets/entreactos/acto1.mp4?v=24d497d1", "poster": "assets/entreactos/acto1.webp?v=4f4a3739"}}, "capas": {"capas": {"cuerpo": "assets/pj/capas/cuerpo.webp?v=66200e3b", "capa": "assets/pj/capas/capa.webp?v=2d14e53d", "pantalon": "assets/pj/capas/pantalon.webp?v=fc330ced", "mochila": "assets/pj/capas/mochila.webp?v=8a00b540", "cantimplora": "assets/pj/capas/cantimplora.webp?v=6987245d"}, "cabezas": {"arturo": "assets/pj/capas/cab_arturo.webp?v=7631a187", "fer": "assets/pj/capas/cab_fer.webp?v=3834c5a4", "patri": "assets/pj/capas/cab_patri.webp?v=92709a21", "edo": "assets/pj/capas/cab_edo.webp?v=76d60fe6", "carlos": "assets/pj/capas/cab_carlos.webp?v=f7a64187", "porru": "assets/pj/capas/cab_porru.webp?v=c176ee6e", "adrian": "assets/pj/capas/cab_adrian.webp?v=1cf2c8cd", "rodri": "assets/pj/capas/cab_rodri.webp?v=266318a2", "juanpablo": "assets/pj/capas/cab_juanpablo.webp?v=bbc0f2f8"}}};
 var FACE = {porru:0, adrian:1, carlos:2, fer:3, edo:4, rodri:5, arturo:6, patri:7, juanpablo:8};
 var FACEN = M.facesN||7;
 var ICON = {

diff --git a/tools/capas.py b/tools/capas.py
@@ -32,6 +32,15 @@ for ri,gy in enumerate(grounds):
         cells.append(dict(row=ri,ground=gy,headtop=headtop,neck=neck,cx=int(hx),x0=o[1].start,x1=o[1].stop))
 print('celdas',len(cells),[c['row'] for c in cells])
 MH=np.median([c['ground']-c['headtop'] for c in cells])
+_b=load('cuerpo.png'); _cy=isCyan(_b)
+for c in cells:
+    x0=c['cx']-140; y0=max(0,c['headtop']-6); m=_cy[y0:c['ground'],x0:c['cx']+140]
+    lab,n=ndimage.label(m); sz=ndimage.sum(m,lab,range(1,n+1)); ys,xs=np.nonzero(lab==np.argmax(sz)+1)
+    c['hb']=ys.max()+y0; c['hx']=xs.mean()+x0      # base y centro de la cabeza del cuerpo
+# misma altura y mismo centro en todos los fotogramas de cada fila: la cabeza no baila
+for r in set(c['row'] for c in cells):
+    F=[c for c in cells if c['row']==r]; hb=int(np.median([c['hb'] for c in F]))
+    for c in F: c['hb']=hb
 FW,FH=53,74; S=60/MH  # el maniquí mide 60 px en el juego
 def limpio(a):
     r,g,b=a[...,0],a[...,1],a[...,2]
@@ -63,7 +72,9 @@ def cabeza(f):
     a=np.where((verde&(L<105))[...,None],np.dstack([L*1.02,L,L*0.96]),a)          # barba / pelo oscuro: gris
     rgba=np.dstack([a,np.where(hm,255,0)]).astype(np.uint8)[hy.min():neck_y+1,hx.min():hx.max()+1]
     face_x=hx.max()-hx.min()
-    return Image.fromarray(rgba,'RGBA'), mh, cyan_top-hy.min()
+    ct=ys.min(); cx_=np.nonzero(cyn[ct:ct+8].any(0))[0].mean()   # donde empieza el cuerpo cian, bajo la cabeza
+    nx=cx_-hx.min()
+    return Image.fromarray(rgba,'RGBA'), mh, ct-hy.min(), nx
 def frames(rgba,head=None,orden=None):
     out=[]
     for c in cells:
@@ -73,9 +84,9 @@ def frames(rgba,head=None,orden=None):
             cell.alpha_composite(Image.fromarray(L[max(0,y0):y1,x0:x1],'RGBA'),(0,max(0,-y0)))
         for L in (orden or []): cell.alpha_composite(Image.fromarray(L[max(0,y0):y1,x0:x1],'RGBA'),(0,max(0,-y0)))
         if head:
-            im,mh,nk=head; k=MH/mh*0.85; hi=im.resize((round(im.width*k),round(im.height*k)),Image.LANCZOS)
+            im,mh,nk,nx=head; k=MH/mh*0.85; hi=im.resize((round(im.width*k),round(im.height*k)),Image.LANCZOS)
             # la nuca del maniquí y el cuello de la cabeza, alineados; la cara hacia la derecha del eje
-            cell.alpha_composite(hi,(int(c['cx']-x0-hi.width*0.55),int(c['headtop']-y0-nk*k*0+ (c['neck']-c['headtop']) - nk*k + 4)))
+            cell.alpha_composite(hi,(int(round(c['hx']-x0-nx*k)),int(round(c['hb']-y0-nk*k+2/S))))
         out.append(cell.resize((FW,FH),Image.LANCZOS))
     return out
 if __name__=='__main__':
